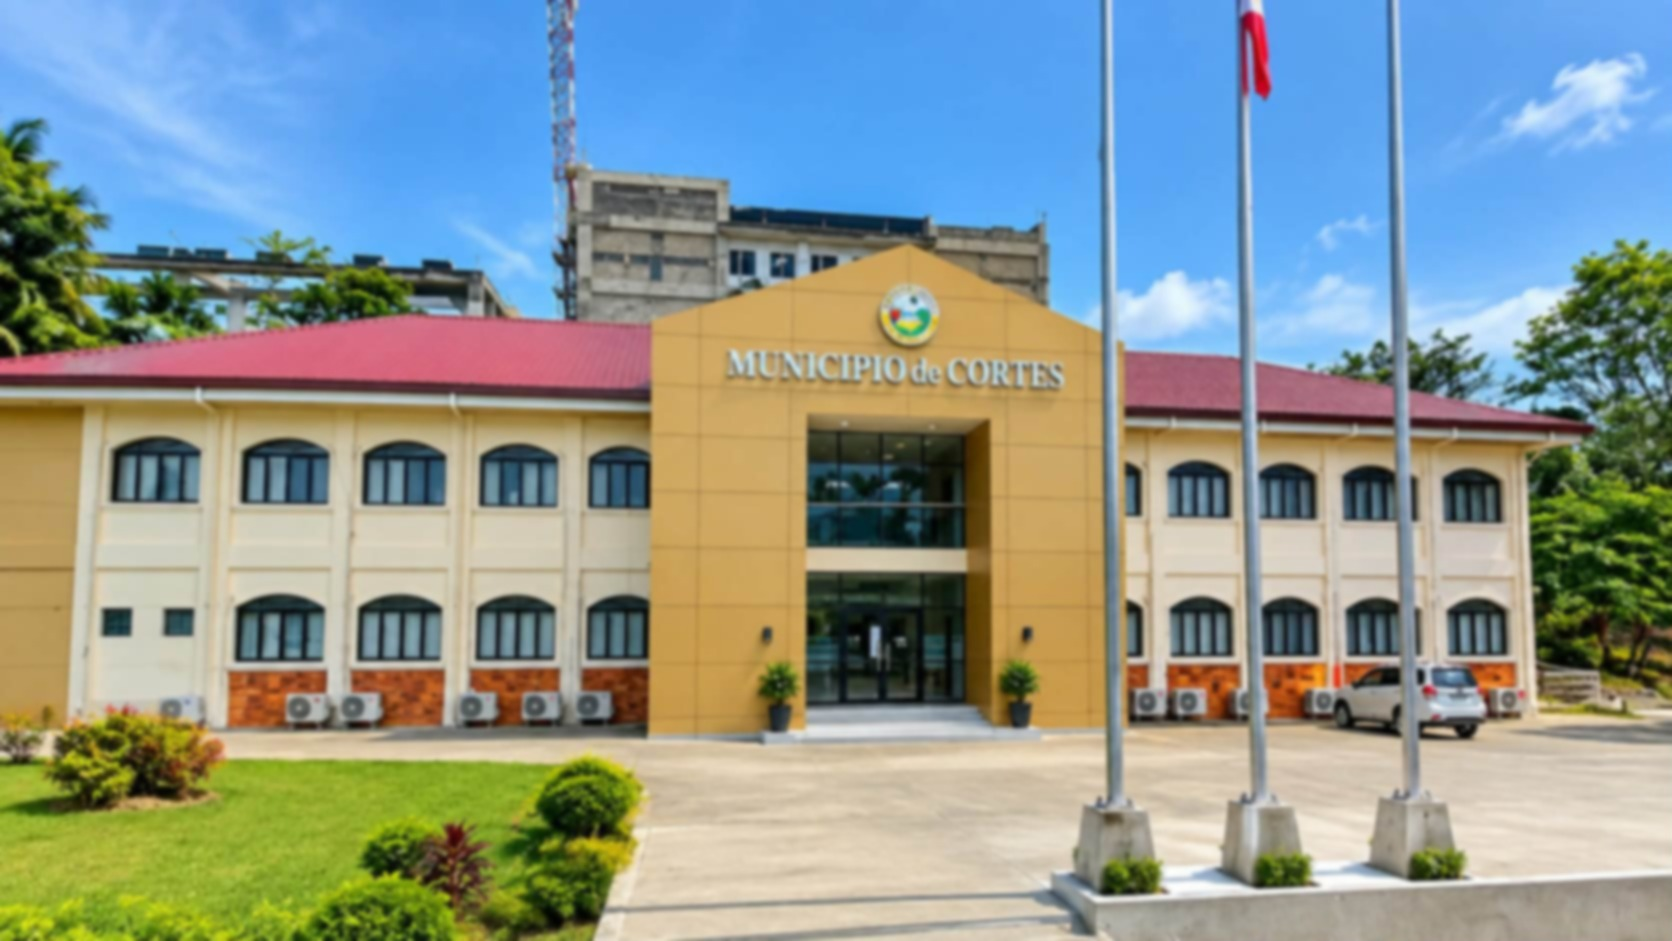
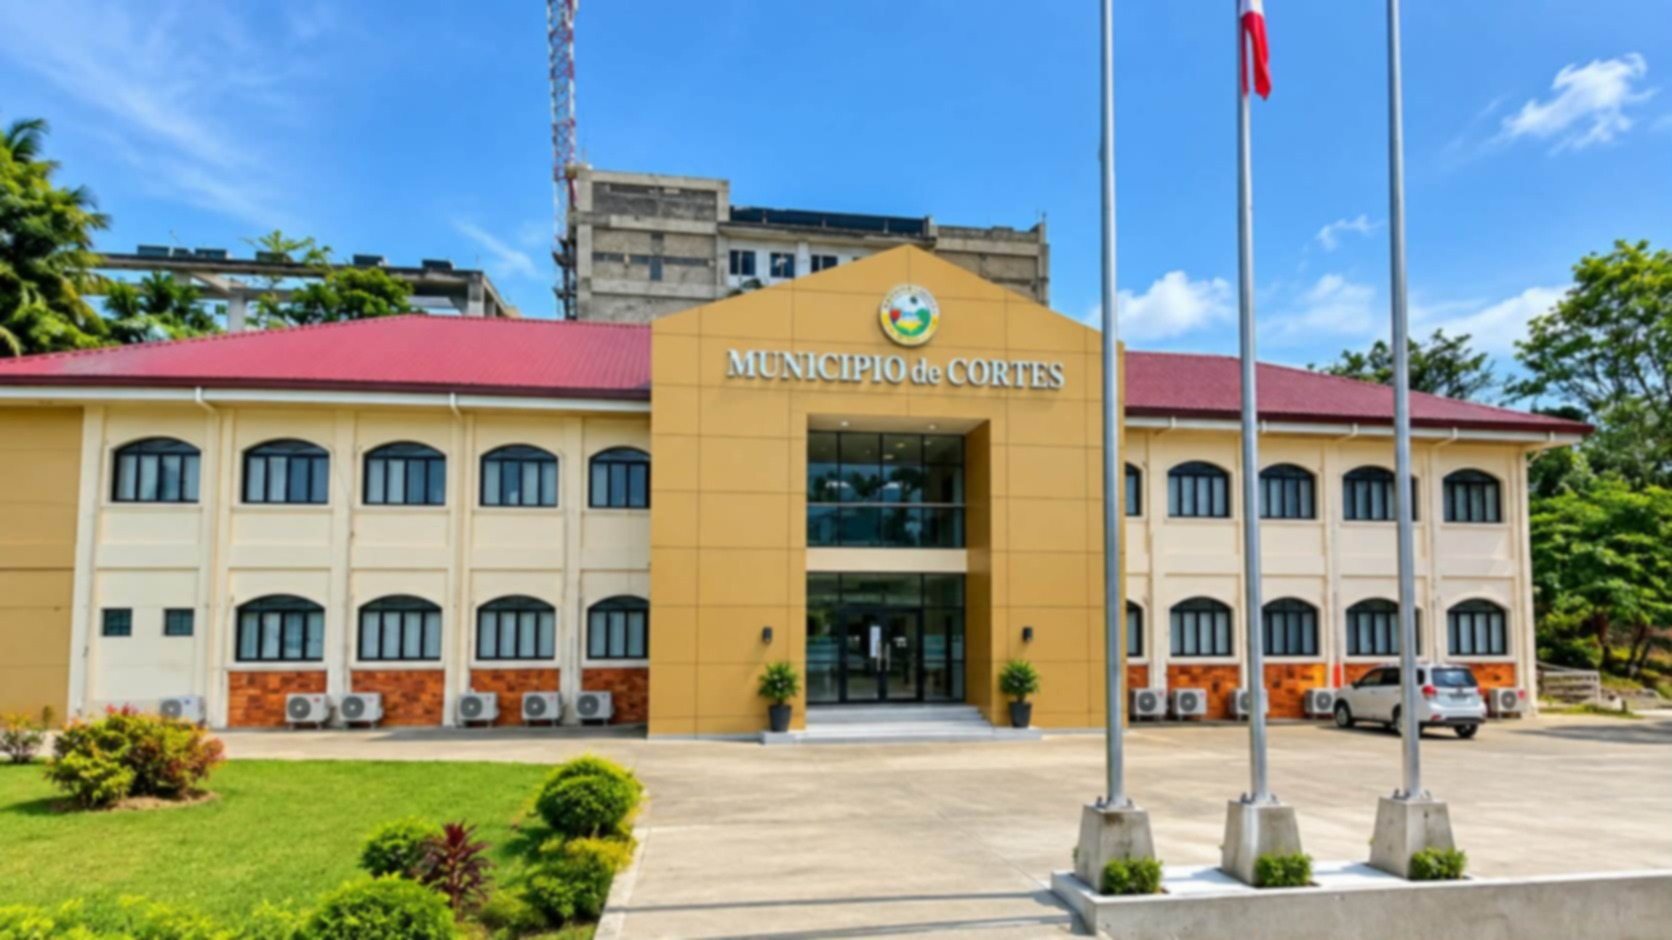
Add files via upload

diff --git a/index.html b/index.html
@@ -8,10 +8,10 @@
     <script type="text/javascript" src="https://cdn.jsdelivr.net/npm/@emailjs/browser@3/dist/email.min.js"></script>
     <style>
       html { scroll-behavior:smooth; }
-      body { min-height:100vh; background:#0f2748 url('images/cortes-bg-blur.png') center center / cover fixed no-repeat; position:relative; }
-      body::before { content:""; position:fixed; inset:0; background:rgba(5,20,40,.24); pointer-events:none; z-index:-1; }
+      body { min-height:100vh; background:#d9e2e8 url('images/cortes-building-bg.jpg') center center / cover fixed no-repeat; position:relative; }
+      body::before { content:""; position:fixed; inset:0; background:rgba(5,20,40,.12); pointer-events:none; z-index:-1; }
       .glass { background:rgba(255,255,255,.82); backdrop-filter:blur(14px); }
-      .hero-bg { position:relative; background:linear-gradient(135deg,rgba(15,45,104,.76),rgba(20,85,168,.58),rgba(15,118,110,.54)), url('images/cortes-bg-blur.png') center center / cover no-repeat; }
+      .hero-bg { position:relative; background:linear-gradient(rgba(15,23,42,.18),rgba(15,23,42,.18)), url('images/cortes-building-bg.jpg') center center / cover no-repeat; }
       #faq { background:rgba(255,255,255,.94) !important; backdrop-filter:blur(3px); }
       #portalPage { background:rgba(15,23,42,.12) !important; }
       .chat-scroll { max-height:360px; overflow-y:auto; }

diff --git a/admin.html b/admin.html
@@ -10,13 +10,13 @@
         html, body { min-height:100%; }
         body {
             position:relative;
-            background:#0b1728 url('images/cortes-bg-blur.png') center center / cover fixed no-repeat;
+            background:#d9e2e8 url('images/cortes-building-bg.jpg') center center / cover fixed no-repeat;
         }
         body::before {
             content:"";
             position:fixed;
             inset:0;
-            background:rgba(2,10,24,.58);
+            background:rgba(2,10,24,.28);
             pointer-events:none;
             z-index:0;
         }
